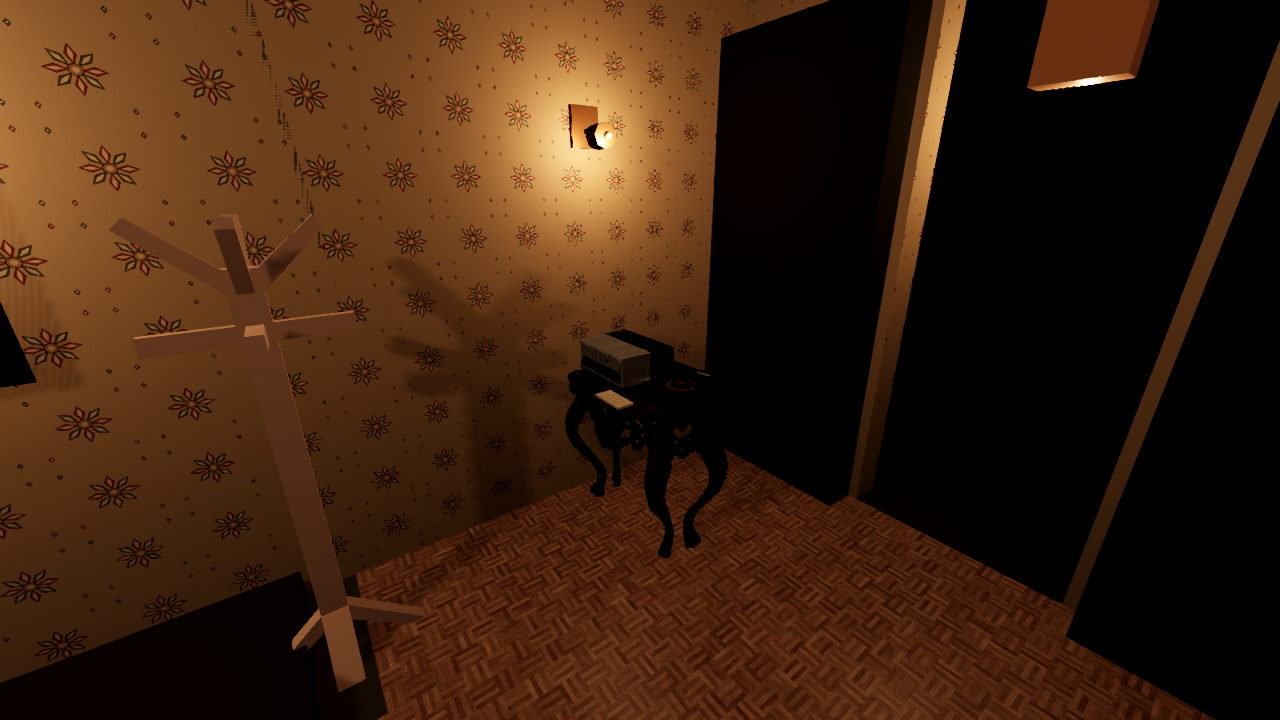
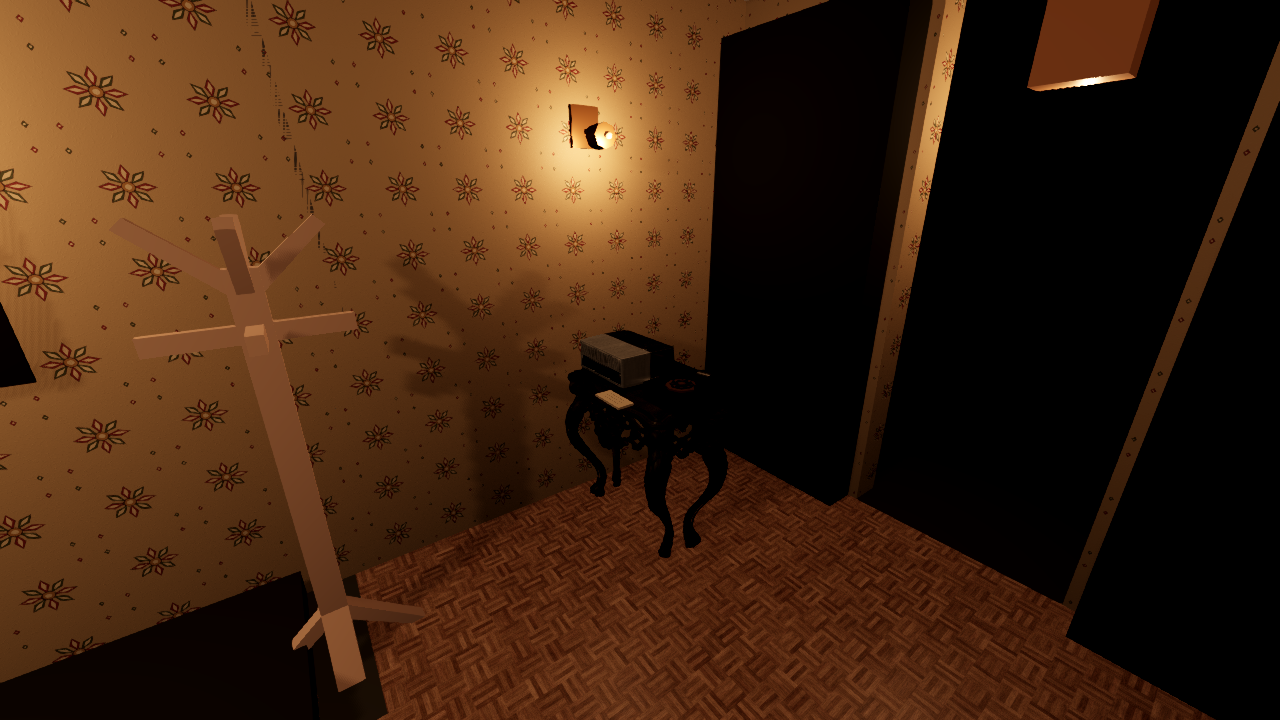
[level] valide la reprise visuelle du hall

diff --git a/docs/TASKS.md b/docs/TASKS.md
@@ -205,7 +205,7 @@
 - **2026-10-20 — N-5/N-10 DONE (V1 minimal).** Cuisine, salon et cour 14 × 9 m ajoutés; 205 en décor, 34 ancres matérialisées, 60 objets instanciés. Trappe cuisine/cave alignée et ouverte par `cellar_door_opens`.
 - Portes alignées vers les six zones; `TempBlockers` retirés. Clôtures/portail extérieur et fond d’escalier sont collidables; appentis exclu par `PLAN_HALLOWEEN`. Vérifié : `check.sh` vert, tests Niveau 104 assertions, 0 échec.
 - **2026-10-21 — N-9/N-7 en cours, première livraison hall (J5).** Les 10 objets du hall ont quitté le cube gris : 5 utilisent des modèles CC0 (console, porte-manteau, miroir, porte-parapluies composite, répondeur) et 5 sont des compositions CSG uniques (baromètre, tableau à clés, sonnette, main fantôme, bague). Mur décoré d’un motif 70s original dérivé de Wallpaper002A CC0; sol WoodFloor017, plafond Plaster001 (ambientCG, 1K). Sources et chaque fichier listés dans `game/assets/CREDITS.md`; dimensions hall conservées/renseignées dans `item.gd`. Tests Niveau : 137 assertions, 0 échec; `bash game/tools/check.sh` vert. Commit hall `8899fa2` (`[level] habille le hall en assets CC0`) poussé sur `origin/agent/level`; branche réalignée sur l’intégration amont `f4c2a1f`. **Refusée visuellement par l’utilisateur le 21/10; corrigée ci-dessous.**
-- **2026-10-21 — N-9/N-7, reprise visuelle du hall.** Les murs est de la cuisine et les doublons mitoyens du bureau/salon sont réservés au mode autonome; le papier peint s’affiche désormais directement sur les murs du hall. Orientations des objets muraux corrigées par les ancres. Escalier refait en 8 marches (16,5 cm de haut × 30 cm de giron), mains courantes et palier; surface audio `wood` sur sol, marches et palier. Plafonnier, appliques et léger rebond lumineux; contrôle supplémentaire sans torche. `shots.sh` exécuté et PNG inspectés : `hall_from_door.png`, `hall_console.png`, `hall_to_stairs.png` et variantes `_no_torch`. Vérification : `check.sh` OK, tests Niveau 176/0, tests systèmes 131/0. Les captures du hall, y compris les vues sans torche, sont jointes au lot de correction; le bureau ne reprend qu’après publication de ce lot.
+- **2026-10-21 — N-9/N-7, hall finalisé visuellement (J5).** Papier peint projeté en triplanaire mondial; doublons de murs réservés au mode autonome; objets muraux et escalier (8 marches, mains courantes, palier) corrigés, surface audio `wood` conservée au sol/marches/palier. Remplissage `StudyDoorwayFillLight` déplacé dans `Study.tscn`, derrière l’ouverture (1,2 d’énergie, portée 4,8 m, sans ombre) : comparatif sans torche confirme le débordement lumineux. Le calendrier cuisine est un CSG lisible (page, en-tête, reliure, grille), ancré sur la face intérieure du mur mitoyen (`kitchen_anchor_calendar`, local `(1.99, 1.52, -1.05)`, rotation Y −90°); vu depuis la cuisine, il explique le bloc gris sans déborder dans le hall. Métadonnées audio des sols ajoutées/vérifiées : `wood` (Study/Living), `tile` (4 sections cuisine + trappe), `stone` (Cellar), `gravel` (Exterior); Hall déjà `wood`. Trois captures standard et trois vues sans torche du hall régénérées et inspectées; captures de diagnostic/crops supprimées. Validation : `check.sh` vert; Niveau 197/0, Systèmes 131/0, Gameplay 134/0, UI 138/0, Audio OK (52 ids présents). Aucun nouvel asset externe; crédits existants conservés. Le hall est validé sur `agent/level`; le bureau est la prochaine pièce et ne commence qu’après publication de ce lot.
 
 ### HANDOFF — Niveau (17 oct. 2026, session 2)
 
